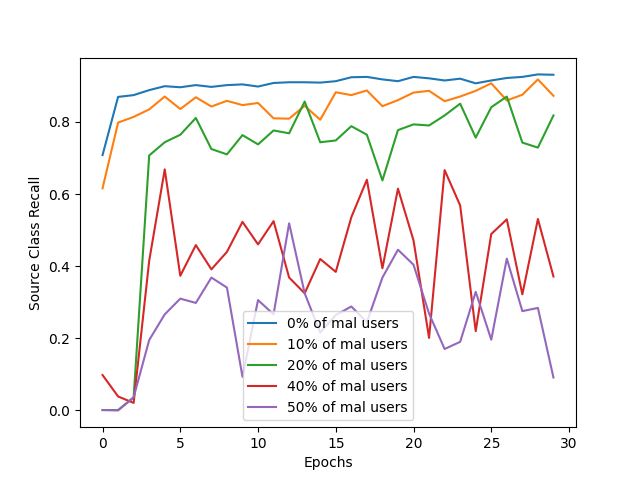
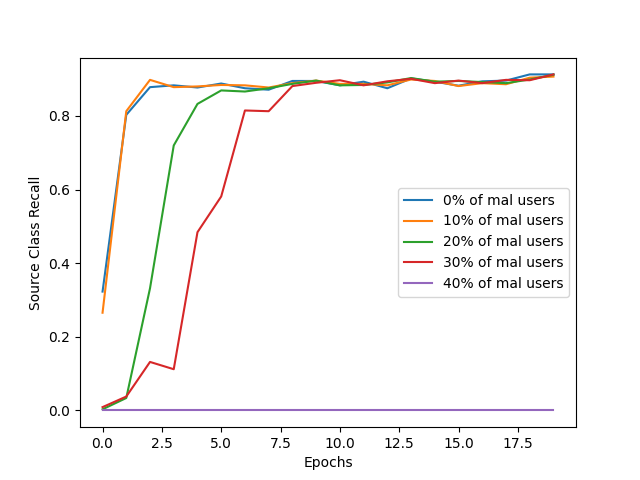
Text for defense

diff --git a/pytorch_fed/src/federated_main.py b/pytorch_fed/src/federated_main.py
@@ -12,11 +12,11 @@ import torch
 from options import args_parser
 from update import LocalUpdate, test_inference
 from models import CNNMnist, CNNCifar
-from utils import get_dataset, average_weights, exp_details
+from utils import get_dataset, average_weights, exp_details, find_largest_diff_index
 
 if __name__ == '__main__':
 
-    n_train_epochs = 30
+    n_train_epochs = 20
     n_train_clients = 50
     n_total_clients = 500
 
@@ -41,7 +41,7 @@ if __name__ == '__main__':
 
     # load dataset and user groups
 
-    train_dataset, test_dataset, user_groups = get_dataset(args, mal_usr_percentage / 100, target_hon, target_mal)
+    train_dataset, test_dataset, user_groups, attackers = get_dataset(args, mal_usr_percentage / 100, target_hon, target_mal)
 
     # Training
     
@@ -70,11 +70,11 @@ if __name__ == '__main__':
     #     'model': global_model,
     # }, 'mnist.pth')
 
-    mal = [0, 10, 20, 40, 50]
+    mal = [0, 10, 20, 30, 40]
     
     for mal_usr_percentage in mal:
     
-        train_dataset, _, user_groups = get_dataset(args, mal_usr_percentage / 100, target_hon, target_mal)
+        train_dataset, _, user_groups, attackers = get_dataset(args, mal_usr_percentage / 100, target_hon, target_mal)
 
         checkpoint = torch.load('mnist.pth')
         global_model = checkpoint['model']
@@ -101,7 +101,7 @@ if __name__ == '__main__':
         test_recall = []
 
         for epoch in tqdm(range(n_train_epochs)):
-            local_weights, local_losses = [], []
+            local_weights_fake, local_losses_fake = [], []
             
             global_model.train()
         
@@ -111,12 +111,61 @@ if __name__ == '__main__':
             for user in selected_users:
                 local_model = LocalUpdate(args=args, dataset=train_dataset, clients=user_groups[user])
 
+                w, loss = local_model.fake_update_weights(
+                    model=copy.deepcopy(global_model))
+                
+                local_weights_fake.append(copy.deepcopy(w))
+                local_losses_fake.append(copy.deepcopy(loss))
+
+            sorted_indices = sorted(range(len(selected_users)), key=lambda k: local_losses_fake[k])
+
+
+            local_losses_fake = [local_losses_fake[i] for i in sorted_indices]
+            local_weights_fake = [local_weights_fake[i] for i in sorted_indices]
+            selected_users = [selected_users[i] for i in sorted_indices]
+
+
+            # print("algo")
+            # print(sorted(selected_users))
+            # if epoch == 2:
+            #     print(local_losses_fake)
+
+            # idx = int((1 - mal_usr_percentage / 100) * n_train_clients)
+            # idx = find_largest_diff_index(local_losses_fake[int(n_train_clients / 2):])
+            # idx += int((n_train_clients / 2) - 1)
+            
+            
+            idx = int((n_train_clients / 2))
+            
+            print(idx)
+            local_weights_fake = local_weights_fake[:idx]
+            local_losses_fake = local_losses_fake[:idx]
+            
+            attackers_found = selected_users[idx:]
+            selected_users = selected_users[:idx]
+    
+            
+            count = sum(1 for item in attackers_found if item in attackers)
+            
+            print("attackers found: " + str(count) + " out of" + str(mal_usr_percentage/ 100 * n_train_clients))
+            # print(count)
+            # print(" out of" + str(attackers))
+
+            # print(attackers)
+            # print(attackers_found)
+            
+            local_weights, local_losses = [], []
+
+            for user in selected_users:
+                local_model = LocalUpdate(args=args, dataset=train_dataset, clients=user_groups[user])
+
                 w, loss = local_model.update_weights(
                     model=copy.deepcopy(global_model))
                 
                 local_weights.append(copy.deepcopy(w))
                 local_losses.append(copy.deepcopy(loss))
-
+            
+            
             loss_avg = sum(local_losses) / len(selected_users)
             
             train_loss_total.append(loss_avg)
@@ -167,8 +216,8 @@ if __name__ == '__main__':
         test_recall_total.append(test_recall)
 
 
-        print(train_accuracy_total)
-        print(test_accuracy_total)
+        # print(train_accuracy_total)
+        # print(test_accuracy_total)
 
         print(f' \n Results after {args.epochs} global rounds of training:')
         print("|---- Avg Train Accuracy: {:.2f}%".format(100 * train_accuracy_total[-1][-1]))

diff --git a/pytorch_fed/src/sampling.py b/pytorch_fed/src/sampling.py
@@ -7,42 +7,6 @@ import numpy as np
 from torchvision import datasets, transforms
 
 
-def split_dataset(dataset, num_users, mal_usr_percentage, target_honest, target_mal):
-    """
-    Sample I.I.D. client data from MNIST dataset
-    :param dataset:
-    :param num_users:
-    :return: dict of image index
-    """
-    num_items = int(len(dataset) / num_users)
-    dict_users, all_idxs = {}, [i for i in range(len(dataset))]
-    
-    num_attackers = int(mal_usr_percentage * num_users)
-    attackers = set(np.random.choice(range(num_users), num_attackers, replace=False))
-
-    new_dataset = {}
-    
-    for i in range(num_users):
-        # np.random.seed(1)
-
-        dict_users[i] = set(np.random.choice(all_idxs, num_items, replace=False))
-        
-        all_idxs = list(set(all_idxs) - dict_users[i])
-
-        if i in attackers:
-            for idx in dict_users[i]:
-                if dataset[idx][1] == target_honest:
-                    new_dataset[idx] = (dataset[idx][0], target_mal)
-                else:
-                    new_dataset[idx] = dataset[idx]
-                    
-        else:
-            for idx in dict_users[i]:
-                new_dataset[idx] = dataset[idx]
-                                
-    return new_dataset, dict_users
-
-
 # def split_dataset(dataset, num_users, mal_usr_percentage, target_honest, target_mal):
 #     """
 #     Sample I.I.D. client data from MNIST dataset
@@ -51,26 +15,66 @@ def split_dataset(dataset, num_users, mal_usr_percentage, target_honest, target_
 #     :return: dict of image index
 #     """
 #     num_items = int(len(dataset) / num_users)
-#     dict_users = {}
+#     dict_users, all_idxs = {}, [i for i in range(len(dataset))]
     
 #     num_attackers = int(mal_usr_percentage * num_users)
-#     attackers = set(range(num_attackers))  # First 'num_attackers' users are attackers
+#     # attackers = set(np.random.choice(range(num_users), num_attackers, replace=False))
+#     attackers = [i for i in range(num_attackers)]
 
 #     new_dataset = {}
     
 #     for i in range(num_users):
-#         start_idx = i * num_items
-#         end_idx = (i + 1) * num_items
-#         dict_users[i] = set(range(start_idx, end_idx))
+#         # np.random.seed(1)
+
+#         dict_users[i] = set(np.random.choice(all_idxs, num_items, replace=False))
         
+#         all_idxs = list(set(all_idxs) - dict_users[i])
+
 #         if i in attackers:
 #             for idx in dict_users[i]:
 #                 if dataset[idx][1] == target_honest:
 #                     new_dataset[idx] = (dataset[idx][0], target_mal)
 #                 else:
 #                     new_dataset[idx] = dataset[idx]
+                    
 #         else:
 #             for idx in dict_users[i]:
 #                 new_dataset[idx] = dataset[idx]
                                 
 #     return new_dataset, dict_users
+
+
+def split_dataset(dataset, num_users, mal_usr_percentage, target_honest, target_mal):
+    """
+    Sample I.I.D. client data from MNIST dataset
+    :param dataset:
+    :param num_users:
+    :return: dict of image index
+    """
+    num_items = int(len(dataset) / num_users)
+    dict_users = {}
+    
+    print("mal_usr_percentage" + str(mal_usr_percentage))
+    print("num users" + str(num_users))
+    
+    num_attackers = int(mal_usr_percentage * num_users)
+    attackers = set(range(num_attackers))  # First 'num_attackers' users are attackers
+    print("len" + str(len(attackers)))
+    new_dataset = {}
+    
+    for i in range(num_users):
+        start_idx = i * num_items
+        end_idx = (i + 1) * num_items
+        dict_users[i] = set(range(start_idx, end_idx))
+        
+        if i in attackers:
+            for idx in dict_users[i]:
+                if dataset[idx][1] == target_honest:
+                    new_dataset[idx] = (dataset[idx][0], target_mal)
+                else:
+                    new_dataset[idx] = dataset[idx]
+        else:
+            for idx in dict_users[i]:
+                new_dataset[idx] = dataset[idx]
+                                
+    return new_dataset, dict_users, attackers

diff --git a/pytorch_fed/src/utils.py b/pytorch_fed/src/utils.py
@@ -24,7 +24,7 @@ def get_dataset(args, mal_usr_percentage, target_hon, target_mal):
         test_dataset = datasets.CIFAR10(data_dir, train = False, download = True, transform = apply_transform)
 
         # sample training data amongst users
-        train_dataset, user_groups = split_dataset(train_dataset, args.num_users, mal_usr_percentage, target_hon, target_mal)
+        train_dataset, user_groups, attackers = split_dataset(train_dataset, args.num_users, mal_usr_percentage, target_hon, target_mal)
  
     elif args.dataset == 'mnist' or 'fmnist':
         if args.dataset == 'mnist':
@@ -41,9 +41,9 @@ def get_dataset(args, mal_usr_percentage, target_hon, target_mal):
         test_dataset = datasets.MNIST(data_dir, train = False, download = True, transform = apply_transform)
 
         # sample training data amongst users
-        train_dataset, user_groups = split_dataset(train_dataset, args.num_users, mal_usr_percentage, target_hon, target_mal)
+        train_dataset, user_groups, attackers = split_dataset(train_dataset, args.num_users, mal_usr_percentage, target_hon, target_mal)
 
-    return train_dataset, test_dataset, user_groups
+    return train_dataset, test_dataset, user_groups, attackers
 
 
 def average_weights(w):
@@ -76,3 +76,18 @@ def exp_details(args):
     print(f'    Local Batch size   : {args.local_bs}')
     print(f'    Local Epochs       : {args.local_ep}\n')
     return
+
+def find_largest_diff_index(nums):
+    # Initializing variables for max difference and its index
+    max_diff = float('-inf')
+    idx = -1
+
+    # Iterating through the list
+    for i in range(1, len(nums)):
+        diff = nums[i] - nums[i - 1]
+        if diff > max_diff:
+            max_diff = diff
+            idx = i
+
+    return idx
+

diff --git a/pytorch_fed/src/update.py b/pytorch_fed/src/update.py
@@ -54,6 +54,34 @@ class LocalUpdate(object):
         
         return train_loader, validation_loader, test_loader
 
+    def fake_update_weights(self, model):
+        # Set mode to train model
+        model.train()
+        epoch_loss = []
+
+        # Set optimizer for the local updates
+        optimizer = torch.optim.SGD(model.parameters(), lr=self.args.lr)
+
+        for _ in range(self.args.local_ep):
+            batch_loss = []
+            
+            for _, (images, labels) in enumerate(self.train_loader):
+                
+                images, labels = images.to(self.device), labels.to(self.device)
+
+                model.zero_grad()
+                log_probs = model(images)
+                loss = self.criterion(log_probs, labels)
+                loss.backward()
+                # optimizer.step()
+
+                batch_loss.append(loss.item())
+            
+            e_loss = sum(batch_loss) / len(self.train_loader)
+            epoch_loss.append(e_loss)
+
+        return model.state_dict(), sum(epoch_loss) / self.args.local_ep
+
     def update_weights(self, model):
         # Set mode to train model
         model.train()
@@ -81,6 +109,7 @@ class LocalUpdate(object):
             epoch_loss.append(e_loss)
 
         return model.state_dict(), sum(epoch_loss) / self.args.local_ep
+
 
     def inference(self, model):
         """ Returns the inference accuracy and loss.
